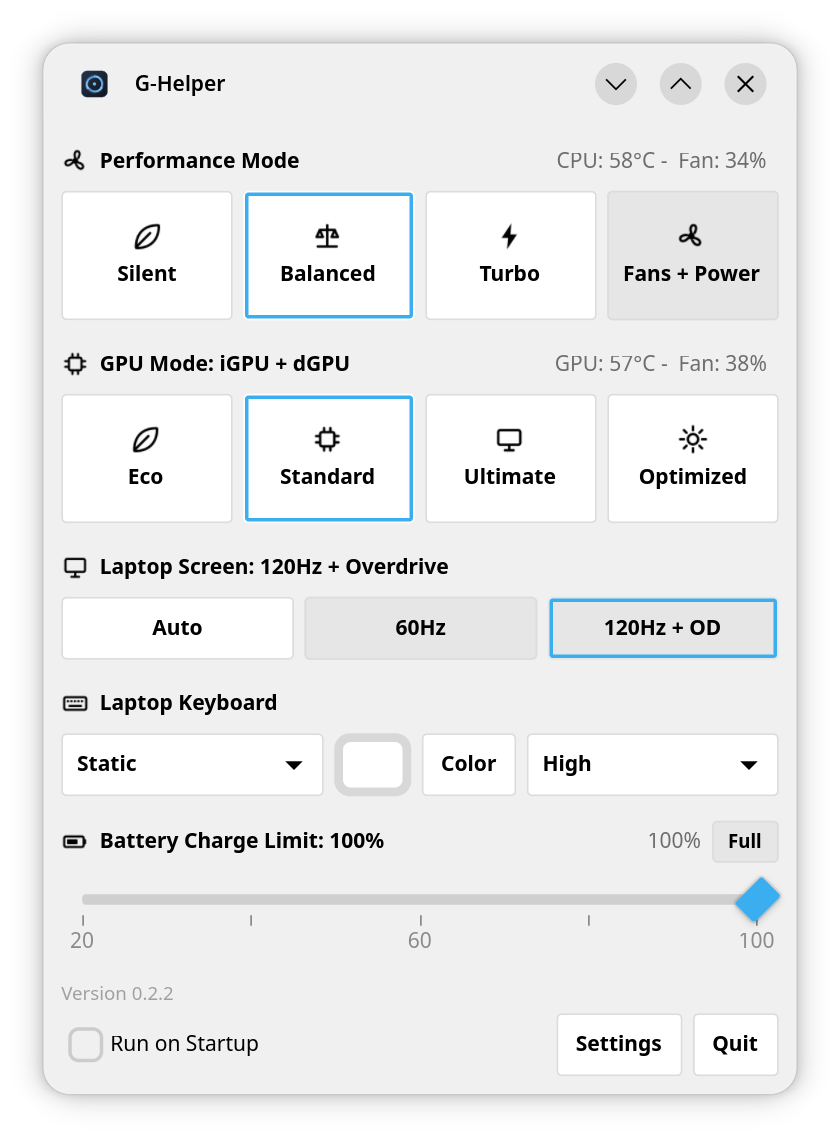
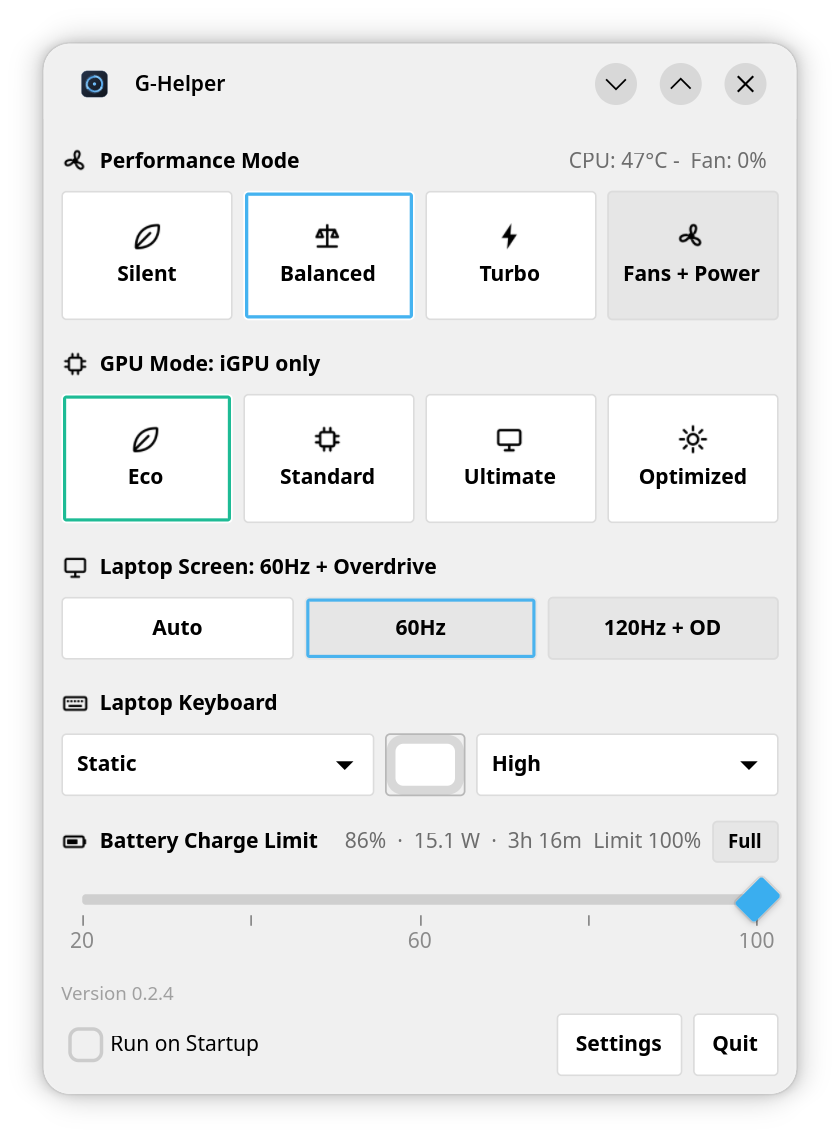
Tidy up the window chrome and status text
A screenshot pass over all four windows found a few things that read wrong:

- Fans and Power had two checkboxes both called 'Auto Apply'; they now say
  which setting they cover.  Apply Power Limits sits under the sliders instead
  of being pinned to the window floor, and the sliders grow into the height,
  which removes the dead space that used to split the column.
- 'Applied' and 'Listening on ...' borrowed the link style, so static status
  looked clickable.  Add green/red status classes without an underline and use
  them for PPT state, hotkey errors and the missing-cardwire note.
- Hotkeys opened at 520px with one row and a stranded footer; it opens at 380,
  has a 'Mapped keys' header with Clear all beside it, and an empty-state hint.
- The battery header repeated its limit as a bare percentage next to the live
  charge.  Title is now 'Battery Charge Limit', the live line keeps charge and
  watts, and the limit is labelled explicitly before the Full button.
- The keyboard colour swatch had no border, so it looked like an empty box, and
  the separate 'Color' button duplicated it.  The swatch gets a border and a
  tooltip; the text button remains only for GTK versions without a colour
  dialog button.

Also drop the duplicated .gh-scale marks rule and refresh the README
screenshot, which showed the pre-0.2.4 layout.

diff --git a/src/ghelper/data/style.css b/src/ghelper/data/style.css
@@ -240,13 +240,20 @@ window.dark .gh-popover-item:hover {
   background: transparent;
 }
 
-.gh-link-ok {
-  color: #3aaeef;
-  text-decoration: underline;
+.gh-status-ok {
+  color: #15803d;
 }
 
-.gh-link-error {
-  color: #ff2020;
+window.dark .gh-status-ok {
+  color: #4ade80;
+}
+
+.gh-status-error {
+  color: #c01c28;
+}
+
+window.dark .gh-status-error {
+  color: #ff7b72;
 }
 
 .gh-scale trough {
@@ -274,10 +281,6 @@ window.dark .gh-scale trough {
 
 window.dark .gh-scale slider {
   border-color: #2e2e2e;
-}
-
-.gh-scale marks {
-  color: #8a8a8a;
 }
 
 .gh-scale marks {
@@ -337,7 +340,12 @@ window.dark .gh-dropdown > button {
 .gh-color-button {
   min-height: 28px;
   min-width: 34px;
+  border: 1px solid #b8b8b8;
   border-radius: 3px;
+}
+
+window.dark .gh-color-button {
+  border-color: #4a4a4a;
 }
 
 .gh-footer-label {

diff --git a/src/ghelper/ui/fans_window.py b/src/ghelper/ui/fans_window.py
@@ -98,11 +98,11 @@ class FansWindow(Adw.Window):
         self.ppt_header = SectionHeader("gh-power-symbolic", "Power Limits (PPT)")
         self.ppt_status = Gtk.Label(label="\u2014", xalign=0.0)
         self.ppt_status.add_css_class("gh-status")
-        self.ppt_status.add_css_class("gh-link-ok")
 
         sliders = Gtk.Box(orientation=Gtk.Orientation.HORIZONTAL, spacing=14)
         sliders.set_halign(Gtk.Align.CENTER)
         sliders.set_homogeneous(True)
+        sliders.set_vexpand(True)
         self.platform_slider = VerticalSlider(
             "Platform", 0, 100, 50, lambda value: self._on_ppt_slider("platform", value)
         )
@@ -115,11 +115,8 @@ class FansWindow(Adw.Window):
         left.append(self.ppt_header)
         left.append(self.ppt_status)
         left.append(sliders)
-        spacer = Gtk.Box()
-        spacer.set_vexpand(True)
-        left.append(spacer)
 
-        self._auto_power = Gtk.CheckButton(label="Auto Apply")
+        self._auto_power = Gtk.CheckButton(label="Auto apply power limits")
         self._auto_power.add_css_class("gh-check")
         self._auto_power.set_active(bool(self.settings.get("auto_apply_ppt")))
         self._auto_power.connect("toggled", self._on_auto_power)
@@ -165,7 +162,7 @@ class FansWindow(Adw.Window):
         right.append(self.gpu_chart)
 
         bottom = Gtk.Box(orientation=Gtk.Orientation.HORIZONTAL, spacing=6)
-        self._auto_fans = Gtk.CheckButton(label="Auto Apply")
+        self._auto_fans = Gtk.CheckButton(label="Auto apply fan curves")
         self._auto_fans.add_css_class("gh-check")
         self._auto_fans.set_active(bool(self.settings.get("auto_apply_fans")))
         self._auto_fans.connect("toggled", self._on_auto_fans)
@@ -385,9 +382,7 @@ class FansWindow(Adw.Window):
                 self._ppt_defaults[key] = int(default)
 
         if not present:
-            self.ppt_status.set_text("Not available")
-            self.ppt_status.remove_css_class("gh-link-ok")
-            self.ppt_status.add_css_class("gh-link-error")
+            self._set_ppt_status("Not available", ok=False)
             return
         self._update_ppt_status()
 
@@ -405,18 +400,19 @@ class FansWindow(Adw.Window):
             current = int(attr.get("CurrentValue", -1000))
             if abs(current - self._ppt_values[key]) > 1:
                 applied = False
-        self.ppt_status.remove_css_class("gh-link-ok")
-        self.ppt_status.remove_css_class("gh-link-error")
         if not present:
-            self.ppt_status.set_text("Not available")
-            self.ppt_status.add_css_class("gh-link-error")
+            self._set_ppt_status("Not available", ok=False)
             return
-        if applied:
-            self.ppt_status.set_text("Applied")
-            self.ppt_status.add_css_class("gh-link-ok")
-        else:
-            self.ppt_status.set_text("Not Applied")
-            self.ppt_status.add_css_class("gh-link-error")
+        self._set_ppt_status("Applied" if applied else "Not applied", ok=applied)
+
+    def _set_ppt_status(self, text: str, *, ok: bool | None = None) -> None:
+        self.ppt_status.set_text(text)
+        for css in ("gh-status-ok", "gh-status-error"):
+            self.ppt_status.remove_css_class(css)
+        if ok is True:
+            self.ppt_status.add_css_class("gh-status-ok")
+        elif ok is False:
+            self.ppt_status.add_css_class("gh-status-error")
 
     def _apply_epp(self, epp: int | None) -> None:
         self._loading = True

diff --git a/src/ghelper/ui/hotkeys_window.py b/src/ghelper/ui/hotkeys_window.py
@@ -17,7 +17,7 @@ class HotkeysWindow(Adw.Window):
             modal=False,
             title="Hotkeys",
             default_width=560,
-            default_height=520,
+            default_height=380,
         )
         self.window = window
         self.settings = window.settings
@@ -51,8 +51,22 @@ class HotkeysWindow(Adw.Window):
         body.append(intro)
 
         self._status = Gtk.Label(label="", xalign=0.0, wrap=True)
-        self._status.add_css_class("gh-status")
+        self._status.add_css_class("gh-live")
         body.append(self._status)
+
+        mapped = Gtk.Box(orientation=Gtk.Orientation.HORIZONTAL, spacing=6)
+        title = Gtk.Label(label="Mapped keys", xalign=0.0)
+        title.add_css_class("gh-section-title")
+        title.set_hexpand(True)
+        mapped.append(title)
+        clear = flat_button("Clear all", small=True)
+        clear.connect("clicked", lambda *_: self.clear_all())
+        mapped.append(clear)
+        body.append(mapped)
+
+        self._empty = Gtk.Label(label="No keys mapped yet \u2014 press one.", xalign=0.0)
+        self._empty.add_css_class("gh-live")
+        body.append(self._empty)
 
         self._list = Gtk.Box(orientation=Gtk.Orientation.VERTICAL, spacing=2)
         scrolled = Gtk.ScrolledWindow()
@@ -61,16 +75,6 @@ class HotkeysWindow(Adw.Window):
         scrolled.set_vexpand(True)
         scrolled.set_child(self._list)
         body.append(scrolled)
-
-        footer = Gtk.Box(orientation=Gtk.Orientation.HORIZONTAL, spacing=6)
-        hint = Gtk.Label(label="Mapped keys", xalign=0.0)
-        hint.add_css_class("gh-live")
-        hint.set_hexpand(True)
-        footer.append(hint)
-        clear = flat_button("Clear all", small=True)
-        clear.connect("clicked", lambda *_: self.clear_all())
-        footer.append(clear)
-        body.append(footer)
 
         toolbar = Adw.ToolbarView()
         toolbar.add_top_bar(header)
@@ -94,13 +98,11 @@ class HotkeysWindow(Adw.Window):
             devices = listener.start()
         except hotkeys_mod.HotkeyError:
             self._status.set_text(hotkeys_mod.HINT)
-            self._status.remove_css_class("gh-link-ok")
-            self._status.add_css_class("gh-link-error")
+            self._status.add_css_class("gh-status-error")
             return
         self._listener = listener
         names = ", ".join(dict.fromkeys(device.name for device in devices))
         self._status.set_text(f"Listening on {names}.")
-        self._status.add_css_class("gh-link-ok")
 
     def _on_key(self, event) -> None:
         if event.code not in self._rows:
@@ -133,6 +135,7 @@ class HotkeysWindow(Adw.Window):
         row.append(combo)
         self._list.append(row)
         self._rows[code] = combo
+        self._empty.set_visible(False)
 
     def _on_action_changed(self, combo: Gtk.DropDown, _param, code: int) -> None:
         index = combo.get_selected()
@@ -153,6 +156,7 @@ class HotkeysWindow(Adw.Window):
             if parent is not None:
                 self._list.remove(parent)
         self._rows.clear()
+        self._empty.set_visible(True)
         self._status.set_text("All mappings cleared. Press a key to add one.")
 
     # -- teardown ---------------------------------------------------------

diff --git a/src/ghelper/ui/main_view.py b/src/ghelper/ui/main_view.py
@@ -158,14 +158,16 @@ class MainView(Gtk.Box):
         except AttributeError:  # older GTK
             pass
         self._color_dialog = Gtk.ColorDialog()
-        self._color_text = flat_button("Color")
-        self._color_text.connect("clicked", self._choose_color)
         self._keyboard_row.append(self._mode_dropdown)
         if self._color_button is not None:
             self._color_button.add_css_class("gh-color-button")
+            self._color_button.set_tooltip_text("Keyboard colour")
             self._color_button.connect("notify::rgba", self._on_aura_color)
             self._keyboard_row.append(self._color_button)
-            self._keyboard_row.append(self._color_text)
+        else:  # older GTK: no colour dialog button
+            color_text = flat_button("Color")
+            color_text.connect("clicked", self._choose_color)
+            self._keyboard_row.append(color_text)
         self._keyboard_row.append(self._brightness_dropdown)
         self.keyboard_section.add(self._keyboard_row)
 
@@ -187,9 +189,12 @@ class MainView(Gtk.Box):
 
     def _build_battery(self) -> None:
         self.battery_section = Section("gh-battery-symbolic", "Battery Charge Limit")
+        self._limit_label = Gtk.Label(label="", xalign=1.0)
+        self._limit_label.add_css_class("gh-live")
         self._full_button = flat_button("Full", secondary=True, small=True)
         self._full_button.set_valign(Gtk.Align.CENTER)
         self._full_button.connect("clicked", self._on_full_charge)
+        self.battery_section.header.add_suffix(self._limit_label)
         self.battery_section.header.add_suffix(self._full_button)
         self.battery_scale = BatteryScale(self._on_battery_changed)
         self.battery_section.add(self.battery_scale)
@@ -434,11 +439,11 @@ class MainView(Gtk.Box):
     def _apply_battery(self, data: dict) -> None:
         limit = data.get("limit")
         if limit is None:
-            self.battery_section.set_title("Battery Charge Limit")
+            self._limit_label.set_text("")
             self.battery_scale.set_sensitive(False)
             return
         self.battery_scale.set_sensitive(True)
-        self.battery_section.set_title(f"Battery Charge Limit: {limit}%")
+        self._limit_label.set_text(f"Limit {limit}%")
         self.battery_scale.set_value(int(limit))
 
     # -- live telemetry ---------------------------------------------------
@@ -868,7 +873,7 @@ class MainView(Gtk.Box):
 
     # -- battery actions --------------------------------------------------
     def _on_battery_changed(self, value: int) -> None:
-        self.battery_section.set_title(f"Battery Charge Limit: {value}%")
+        self._limit_label.set_text(f"Limit {value}%")
         self.window.run(
             lambda: self.asusd.set_charge_limit(value),
             done=lambda _r: self.window.toast(f"Charge limit: {value}%"),

diff --git a/src/ghelper/ui/settings_window.py b/src/ghelper/ui/settings_window.py
@@ -168,7 +168,7 @@ class SettingsWindow(Adw.Window):
         if not cw.available():
             add.set_sensitive(False)
             missing = Gtk.Label(label="cardwire is not installed", xalign=0.0)
-            missing.add_css_class("gh-link-error")
+            missing.add_css_class("gh-status-error")
             row.append(missing)
         row.append(add)
         section.add(row)

diff --git a/src/ghelper/ui/widgets.py b/src/ghelper/ui/widgets.py
@@ -208,6 +208,7 @@ class VerticalSlider(Gtk.Box):
         self.scale.set_draw_value(False)
         self.scale.set_size_request(-1, 180)
         self.scale.set_hexpand(False)
+        self.scale.set_vexpand(True)
         self.scale.add_css_class("gh-scale")
         self.scale.add_css_class("vertical")
         self.scale.set_value(value)
